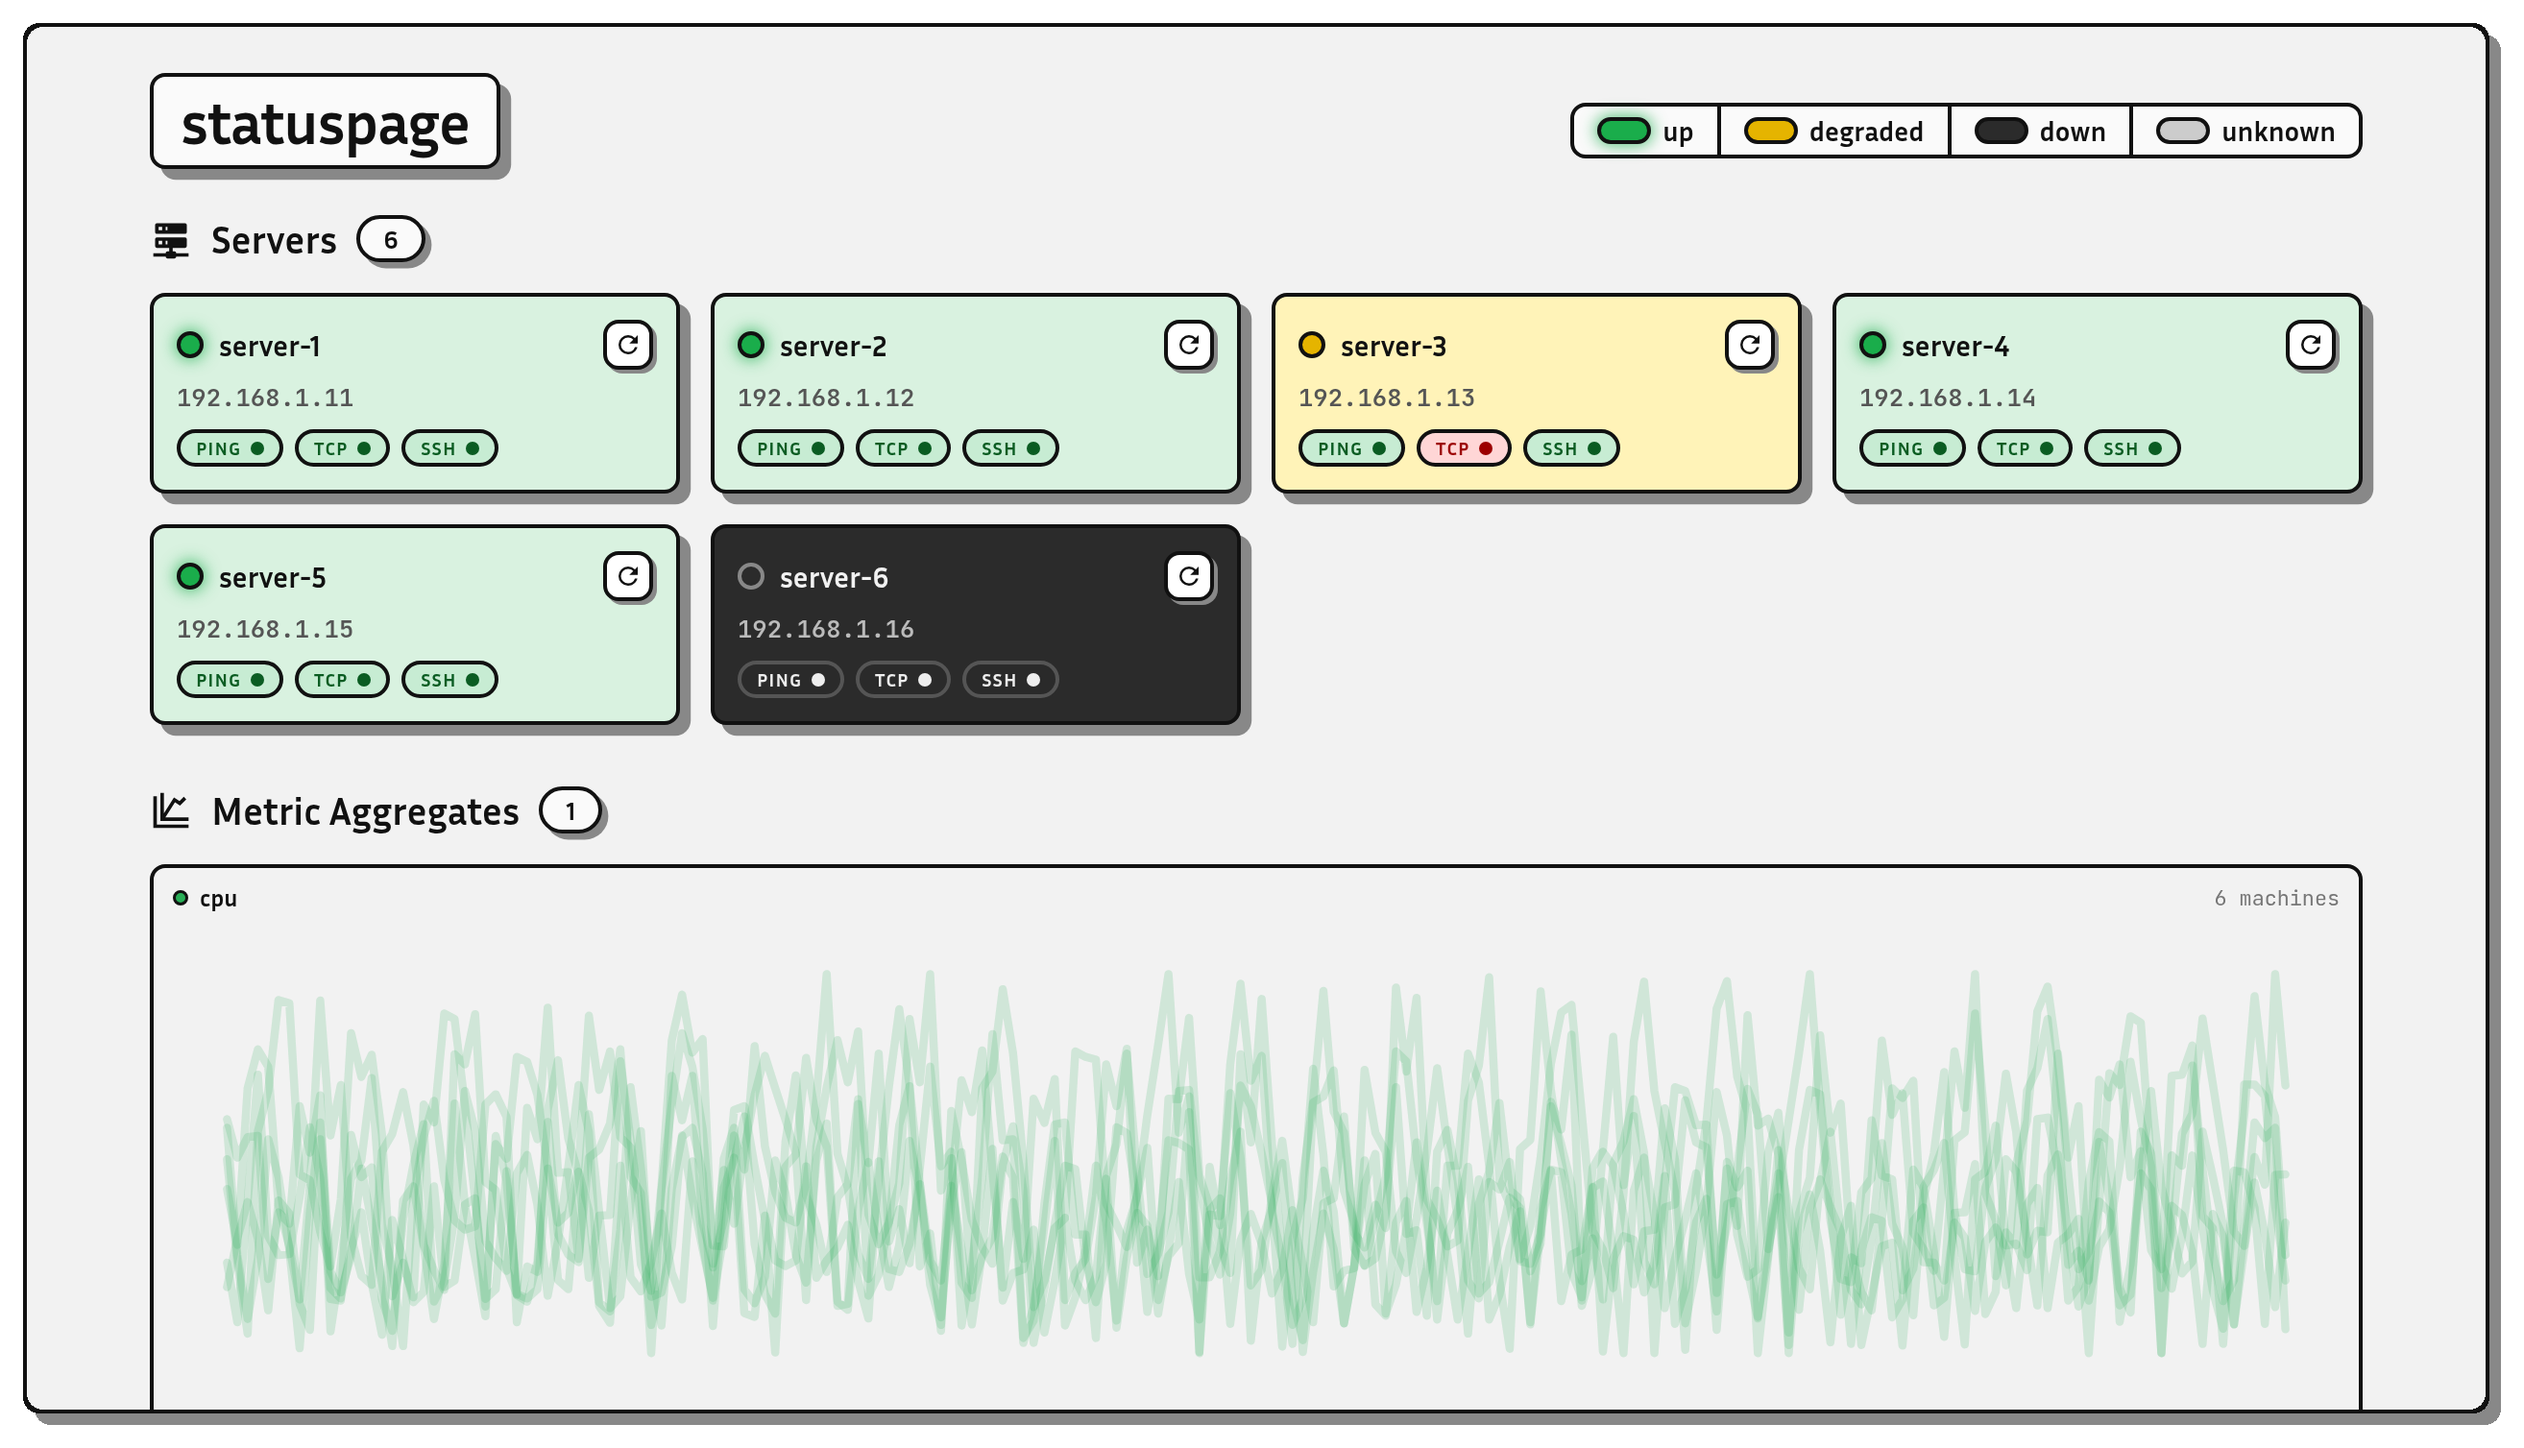
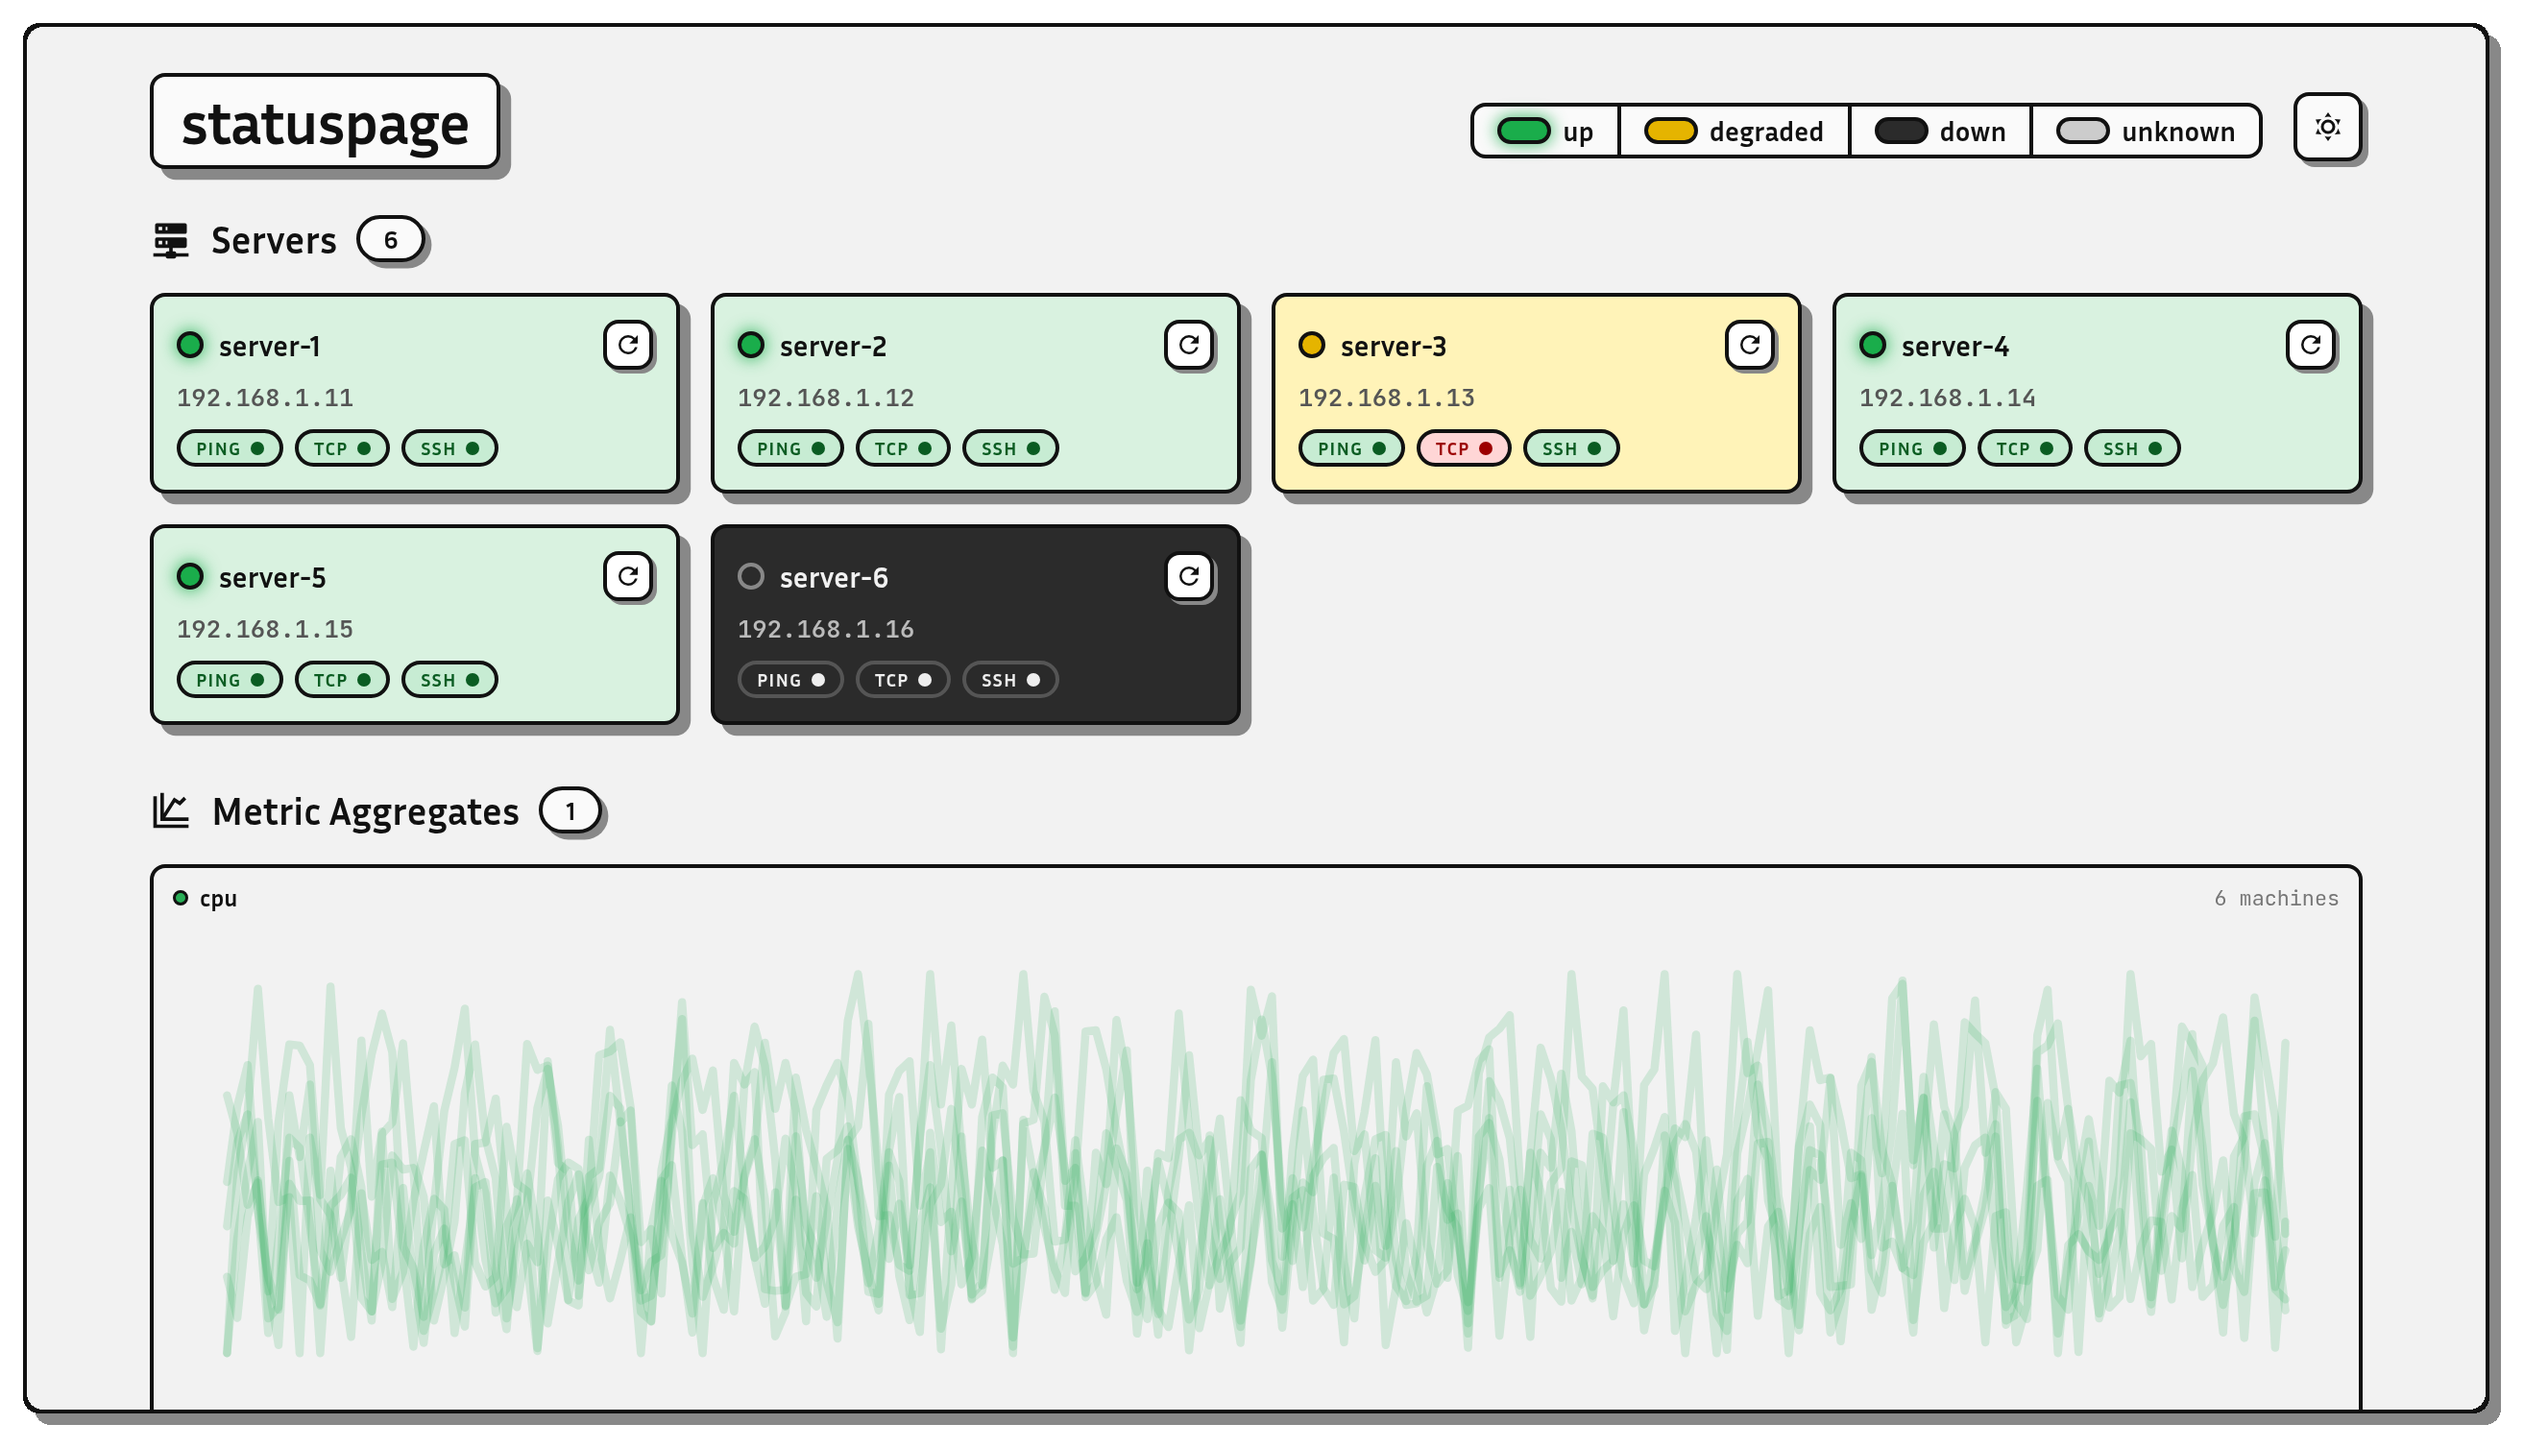
screenshots: generate light/dark/collage in one run with mtime caching; collage 1080p

Changed region(s): [[0.0624, 0.6545, 0.9049, 0.935], [0.5928, 0.0623, 0.9361, 0.1247]]

diff --git a/README.md b/README.md
@@ -7,7 +7,7 @@ numeric metrics, and keeps recent history in SQLite.
 The backend is a single Go binary, the frontend is a Preact + Vite page, and
 everything is configured with one YAML file.
 
-![statuspage](assets/screenshots/status.png)
+![statuspage](assets/screenshots/status-collage.png)
 
 ## Features
 
@@ -120,16 +120,26 @@ README image, but is handy for previewing the UI quickly:
 ### Screenshot
 
 `scripts/generate-screenshot` builds the frontend and server, starts the app in
-mock mode, captures the top of the page with headless Chromium, and frames it
-with a transparent background, border, and shadow. It needs `chromium` and
-`python3-PIL` on PATH:
+mock mode, captures the top of the page with headless Chromium in both light and
+dark, and frames each with a transparent background, border, and shadow. It
+needs `chromium` and `python3-PIL` on PATH:
 
 ```sh
 ./scripts/generate-screenshot
 ```
 
-The PNG is written to `assets/screenshots/status.png` — the image at the top of
-this README.
+This writes three PNGs to `assets/screenshots/`:
+
+| file                        | contents                                          |
+| --------------------------- | ------------------------------------------------- |
+| `status.png`                | light capture                                     |
+| `status-dark.png`           | dark capture                                      |
+| `status-collage.png`        | dark behind, offset top-left, light on top        |
+
+Runs are incremental: a capture is skipped when no frontend/server source is
+newer than the existing PNG, and the collage is rebuilt only when the mtime of a
+light/dark variant is newer than the collage. `status-collage.png` is the image
+at the top of this README.
 
 ### Flags
 
